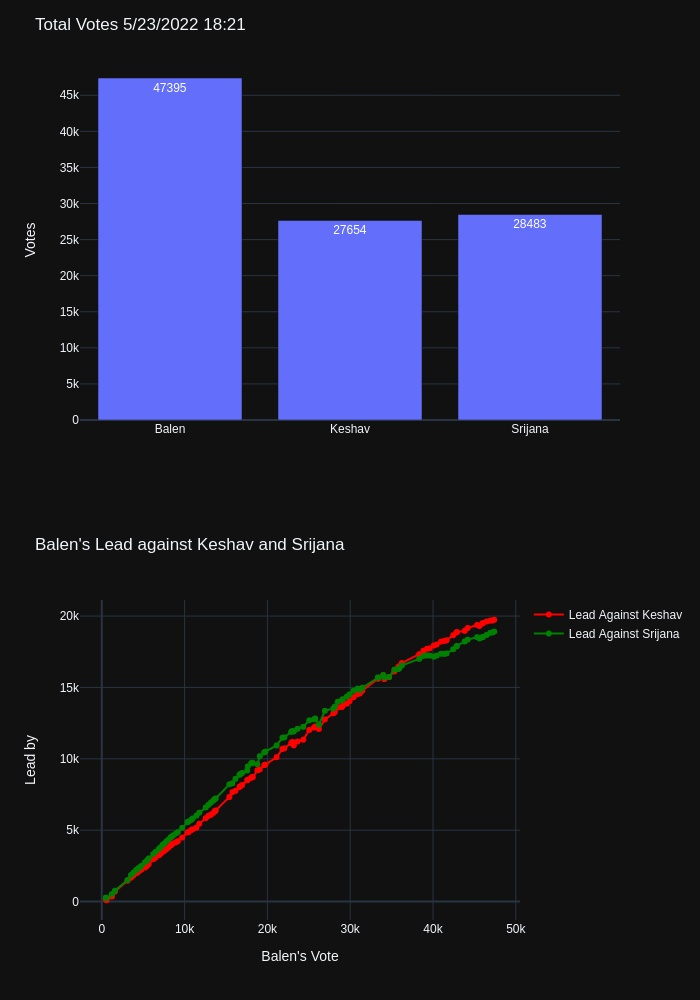
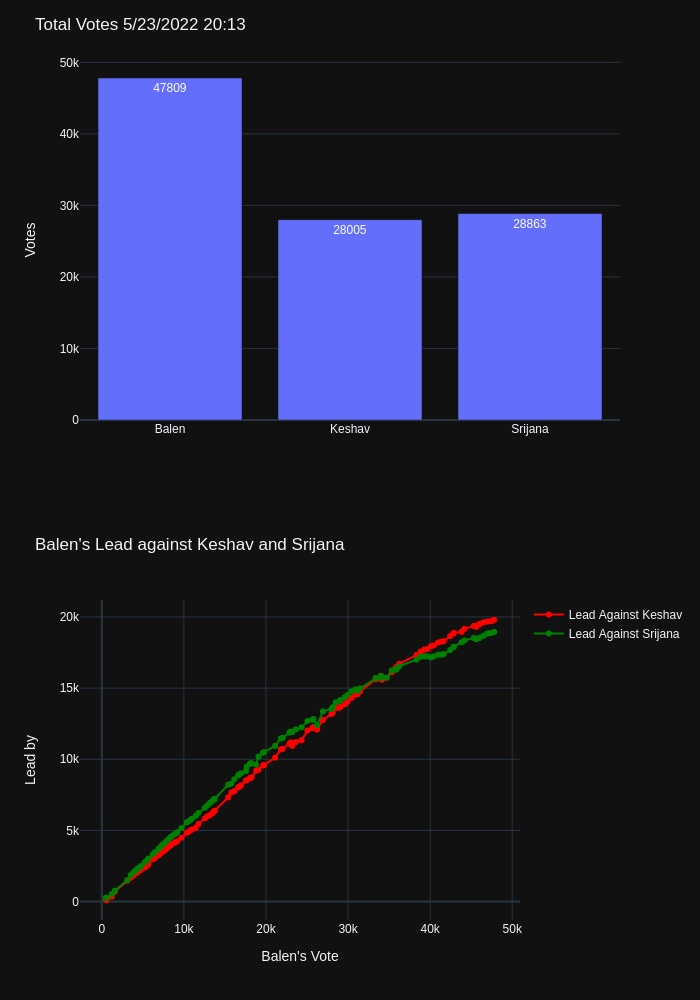
add data

diff --git a/README.md b/README.md
@@ -1,4 +1,4 @@
-## Last Update: 5/23/2022 18:21
+## Last Update: 5/23/2022 20:13
 
 ## Balen's Lead against Keshav Sthapit and Srijana Singh
 ![ScreenShot](final.jpg)
